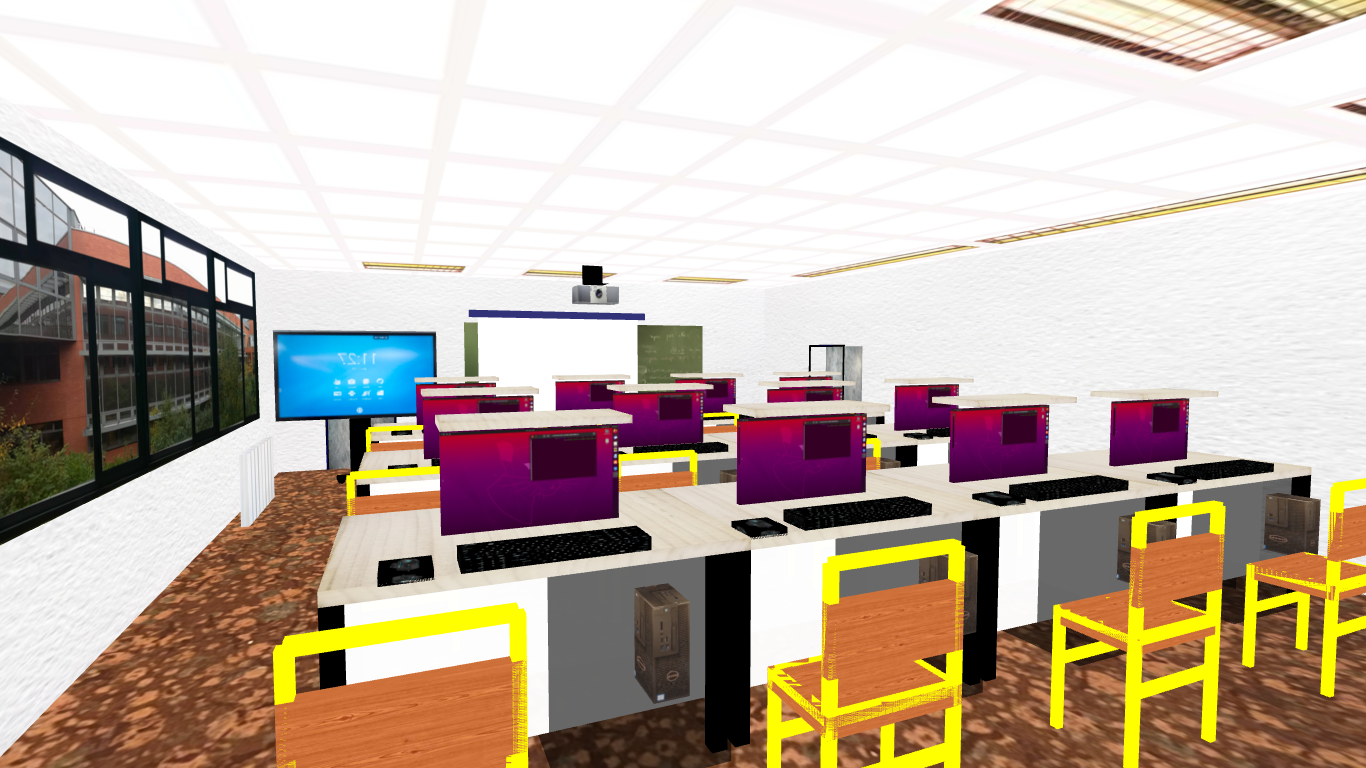
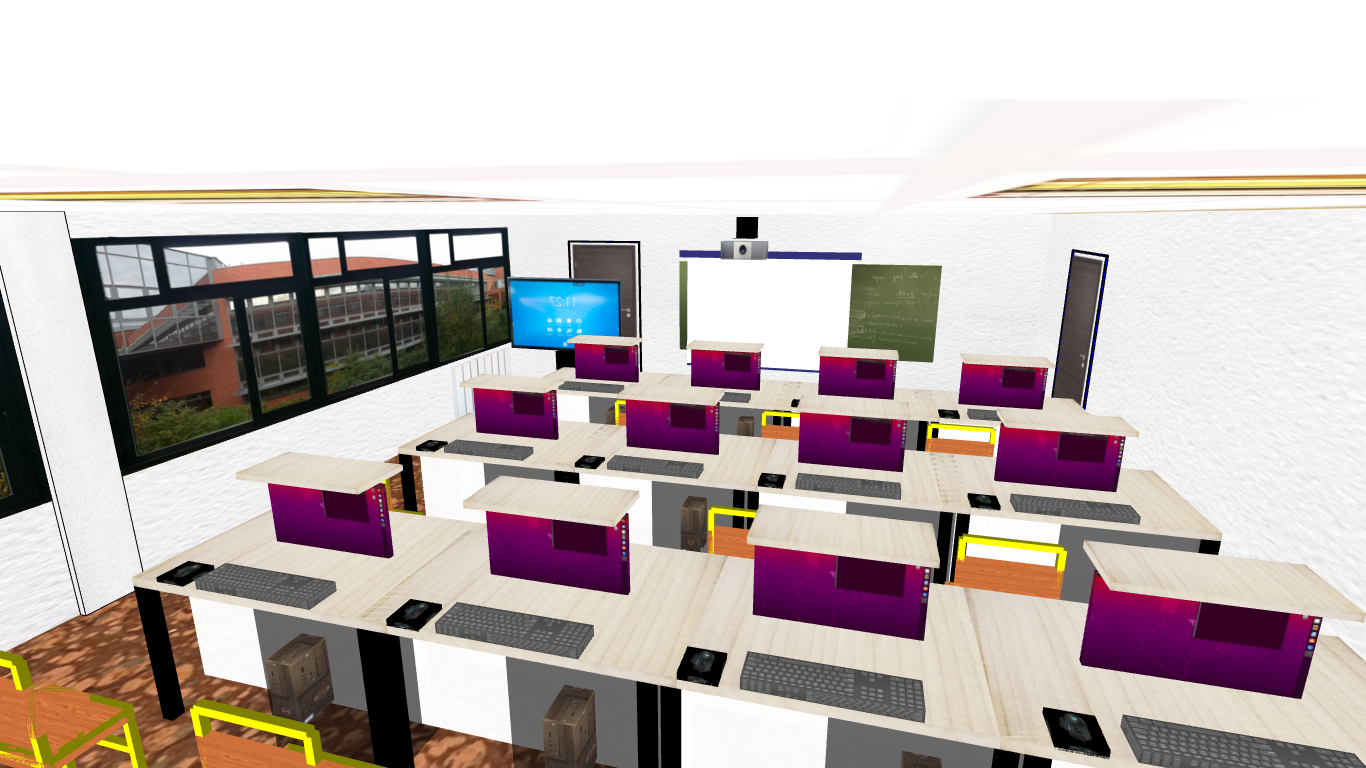
depot final (shader  + amelioration)

diff --git a/README.md b/README.md
@@ -25,7 +25,20 @@ Le projet s'inscrit dans le cadre du Master Informatique M1 à l'Université du 
 
 ![img_1.png](M1.png)
 
-![alt text](M1_1.png) ![alt text](M2.png)
+- Vue de la salle de classe avec fermeture des bureaux:
+
+![alt text](M1_1.png) 
+
+- Avec exteinction des lumières:
+
+![alt text](M2_1.png)
+
+---
+
+
+![alt text](M2.png)
+
+
 
 ## **Quelques fonctionnalités**
 - **Rotation de la caméra** : vous pouvez faire pivoter la caméra autour de la salle de classe en utilisant la souris.
@@ -33,6 +46,14 @@ Le projet s'inscrit dans le cadre du Master Informatique M1 à l'Université du 
 - **Ouverture/fermeture des portes** : vous pouvez ouvrir et fermer les portes de la salle de classe en appuyant sur la touche "O".
 - **Allumage/extinction des lumières** : vous pouvez allumer et éteindre les lumières de la salle de classe en appuyant sur la touche "L".
 - **Ouverture/fermeture des coffres ordinateurs** : vous pouvez ouvrir et fermer les coffres des ordinateurs en appuyant sur la touche "C".
-- **Activation/désactivation du vidéoprojecteur** : vous pouvez activer et désactiver le vidéoprojecteur en appuyant sur la touche "P".
+- **Activation/désactivation du vidéoprojecteur** : vous pouvez activer et désactiver le vidéoprojecteur en appuyant sur la touche "P" qui affiche une image sur le tableau.
+- **Allumage/extinction de la lumière de la salle** : Ici un shader est utilisé pour simuler l'allumage et l'extinction de la lumière de la salle. Vous pouvez activer et désactiver la lumière de la salle en appuyant sur la touche "L".
+
 ## **Auteurs**
 - [THIAM PAPA](https://www.linkedin.com/in/papa-thiam-b914991b7/)
+
+## **Statut du projet**
+Le projet est terminé et fonctionnel. Néanmoins, des améliorations et des fonctionnalités supplémentaires peuvent être ajoutées.
+
+## **License**
+Ce projet est sous licence MIT - voir le fichier [LICENSE.md](LICENSE.md) pour plus d'informations.
